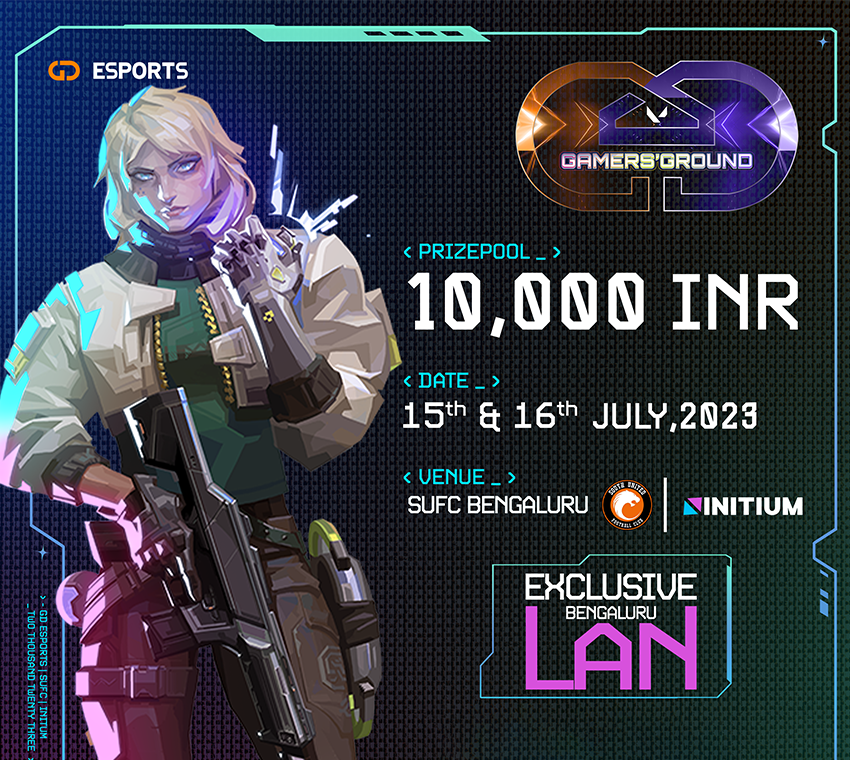
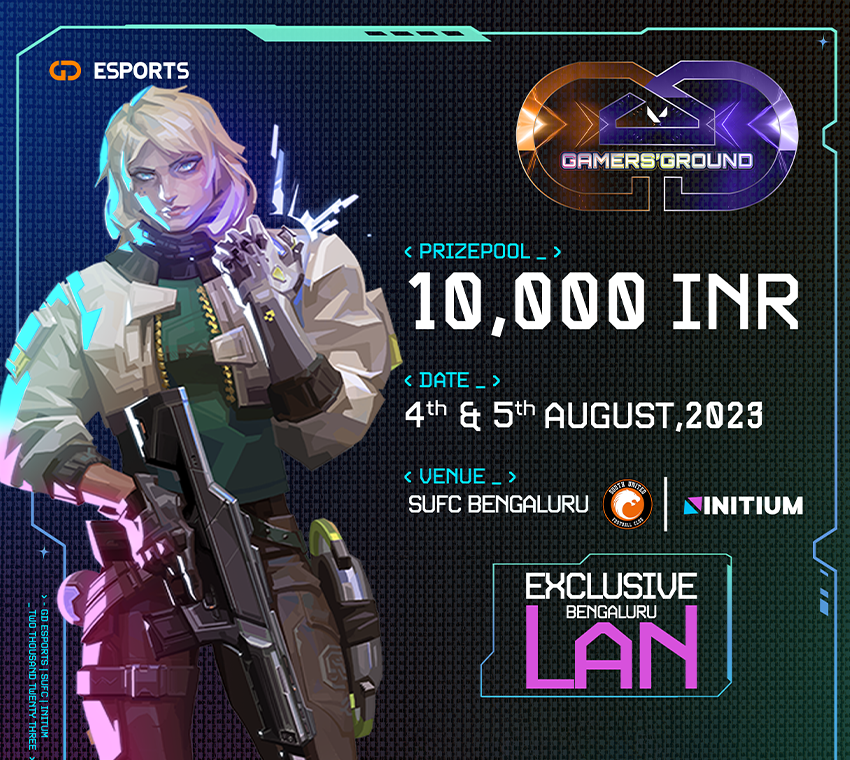
Gamersground Date Update

diff --git a/gd-form copy 2/script.js b/gd-form copy 2/script.js
@@ -1,30 +1,30 @@
 let timer;
 
 const compareDate = new Date();
-var countDownDate = new Date("JUL 15, 2023 16:37:52").getTime();
+var countDownDate = new Date("AUG 4, 2023 16:37:52").getTime();
 
 compareDate.setDate(compareDate.getDate() + 11); //just for this demo today + 7 days
 
 var myfunc = setInterval(function () {
-	// code goes here
-	var now = new Date().getTime();
-	var timeleft = countDownDate - now;
+  // code goes here
+  var now = new Date().getTime();
+  var timeleft = countDownDate - now;
 
-	var days = Math.floor(timeleft / (1000 * 60 * 60 * 24));
-	var hours = Math.floor((timeleft % (1000 * 60 * 60 * 24)) / (1000 * 60 * 60));
-	var minutes = Math.floor((timeleft % (1000 * 60 * 60)) / (1000 * 60));
-	var seconds = Math.floor((timeleft % (1000 * 60)) / 1000);
+  var days = Math.floor(timeleft / (1000 * 60 * 60 * 24));
+  var hours = Math.floor((timeleft % (1000 * 60 * 60 * 24)) / (1000 * 60 * 60));
+  var minutes = Math.floor((timeleft % (1000 * 60 * 60)) / (1000 * 60));
+  var seconds = Math.floor((timeleft % (1000 * 60)) / 1000);
 
-	document.querySelector(".day").textContent = String(days).padStart(2, 0);
-	document.querySelector(".hour").textContent = String(hours).padStart(2, 0);
-	document.querySelector(".minute").textContent = String(minutes).padStart(
-		2,
-		0
-	);
-	document.querySelector(".second").textContent = String(seconds).padStart(
-		2,
-		0
-	);
+  document.querySelector(".day").textContent = String(days).padStart(2, 0);
+  document.querySelector(".hour").textContent = String(hours).padStart(2, 0);
+  document.querySelector(".minute").textContent = String(minutes).padStart(
+    2,
+    0
+  );
+  document.querySelector(".second").textContent = String(seconds).padStart(
+    2,
+    0
+  );
 }, 1000);
 
 // function timeBetweenDates(toDate) {
@@ -49,44 +49,44 @@ let formHtml = [];
 console.log(formHtml);
 
 function confirm(e) {
-	e.preventDefault();
-	const edit = document.querySelectorAll(".edit");
-	edit.forEach((el) => {
-		el.style.display = "flex";
-		el.addEventListener("click", function (e) {
-			e.preventDefault();
-			el.closest(".form")
-				.querySelectorAll("input")
-				.forEach((el) => {
-					el.readOnly = !el.readOnly;
-					el.classList.toggle("hidden");
-				});
-		});
-	});
-	document.querySelector(".form-btn-confirm").style.display = "none";
-	document.querySelector(".form-btn").style.display = "flex";
-	document.querySelectorAll(".form").forEach((el) => {
-		el.querySelectorAll("input").forEach((el) => {
-			el.readOnly = "true";
-			el.classList.add("hidden");
-		});
-	});
+  e.preventDefault();
+  const edit = document.querySelectorAll(".edit");
+  edit.forEach((el) => {
+    el.style.display = "flex";
+    el.addEventListener("click", function (e) {
+      e.preventDefault();
+      el.closest(".form")
+        .querySelectorAll("input")
+        .forEach((el) => {
+          el.readOnly = !el.readOnly;
+          el.classList.toggle("hidden");
+        });
+    });
+  });
+  document.querySelector(".form-btn-confirm").style.display = "none";
+  document.querySelector(".form-btn").style.display = "flex";
+  document.querySelectorAll(".form").forEach((el) => {
+    el.querySelectorAll("input").forEach((el) => {
+      el.readOnly = "true";
+      el.classList.add("hidden");
+    });
+  });
 
-	const handleSubmit = (event) => {
-		event.preventDefault();
+  const handleSubmit = (event) => {
+    event.preventDefault();
 
-		const myForm = event.target;
-		const formData = new FormData(myForm);
+    const myForm = event.target;
+    const formData = new FormData(myForm);
 
-		fetch("/", {
-			method: "POST",
-			headers: { "Content-Type": "application/x-www-form-urlencoded" },
-			body: new URLSearchParams(formData).toString(),
-		})
-			.then(() => (document.location.href = "../confirm/register.html"))
-			.catch((error) => alert(error));
-	};
-	document.querySelector(".form-box").addEventListener("submit", handleSubmit);
+    fetch("/", {
+      method: "POST",
+      headers: { "Content-Type": "application/x-www-form-urlencoded" },
+      body: new URLSearchParams(formData).toString(),
+    })
+      .then(() => (document.location.href = "../confirm/register.html"))
+      .catch((error) => alert(error));
+  };
+  document.querySelector(".form-box").addEventListener("submit", handleSubmit);
 }
 document.querySelector(".form-box").addEventListener("submit", confirm);
 
@@ -108,19 +108,19 @@ document.querySelector(".form-box").addEventListener("submit", confirm);
 // document.querySelector("form").addEventListener("submit", handleSubmit);
 
 function checkFlexGap() {
-	var flex = document.createElement("div");
-	flex.style.display = "flex";
-	flex.style.flexDirection = "column";
-	flex.style.rowGap = "1px";
+  var flex = document.createElement("div");
+  flex.style.display = "flex";
+  flex.style.flexDirection = "column";
+  flex.style.rowGap = "1px";
 
-	flex.appendChild(document.createElement("div"));
-	flex.appendChild(document.createElement("div"));
+  flex.appendChild(document.createElement("div"));
+  flex.appendChild(document.createElement("div"));
 
-	document.body.appendChild(flex);
-	var isSupported = flex.scrollHeight === 1;
-	flex.parentNode.removeChild(flex);
-	// console.log(isSupported);
+  document.body.appendChild(flex);
+  var isSupported = flex.scrollHeight === 1;
+  flex.parentNode.removeChild(flex);
+  // console.log(isSupported);
 
-	if (!isSupported) document.body.classList.add("no-flexbox-gap");
+  if (!isSupported) document.body.classList.add("no-flexbox-gap");
 }
 checkFlexGap();

diff --git a/carousel.css b/carousel.css
@@ -1,5 +1,5 @@
 * {
-	box-sizing: border-box;
+  box-sizing: border-box;
 }
 
 /* body {
@@ -13,11 +13,11 @@
 } */
 
 .slider {
-	height: 50rem;
-	margin: 0 auto;
-	position: relative;
+  height: 50rem;
+  margin: 0 auto;
+  position: relative;
 
-	background-size: contain;
+  background-size: contain;
 }
 
 /* .wrapper {
@@ -29,31 +29,31 @@
 } */
 
 .slides {
-	position: absolute;
+  position: absolute;
 
-	left: 0;
-	display: flex;
-	height: auto;
-	align-items: center;
-	justify-content: center;
+  left: 0;
+  display: flex;
+  height: auto;
+  align-items: center;
+  justify-content: center;
 }
 .slider-img {
-	/* height: 50rem; */
-	width: 100%;
+  /* height: 50rem; */
+  width: 100%;
 }
 
 .slides.shifting {
-	transition: left 0.2s ease-out;
+  transition: left 0.2s ease-out;
 }
 
 .slide {
-	display: flex;
-	width: 100vw;
-	justify-content: center;
-	transition: all 1s;
-	position: relative;
+  display: flex;
+  width: 100vw;
+  justify-content: center;
+  transition: all 1s;
+  position: relative;
 
-	border-radius: 2px;
+  border-radius: 2px;
 }
 /* 
 .slider.loaded {
@@ -77,58 +77,58 @@
 } */
 
 .control {
-	position: absolute;
-	top: 50%;
-	height: 6.5rem;
-	width: 6.5rem;
-	background: #fff;
-	border-radius: 50px;
-	margin-top: -20px;
-	box-shadow: 1px 1px 10px rgba(0, 0, 0, 0.3);
-	z-index: 2;
+  position: absolute;
+  top: 50%;
+  height: 6.5rem;
+  width: 6.5rem;
+  background: #fff;
+  border-radius: 50px;
+  margin-top: -20px;
+  box-shadow: 1px 1px 10px rgba(0, 0, 0, 0.3);
+  z-index: 2;
 }
 
 .prev,
 .next {
-	background-size: 2.2rem;
-	background-position: center;
-	background-repeat: no-repeat;
-	cursor: pointer;
-	transform: translate(0, -50%);
+  background-size: 2.2rem;
+  background-position: center;
+  background-repeat: no-repeat;
+  cursor: pointer;
+  transform: translate(0, -50%);
 }
 
 .prev {
-	background-image: url(./svgs/left-arrow.svg);
-	top: 50%;
-	left: 1%;
+  background-image: url(./svgs/left-arrow.svg);
+  top: 50%;
+  left: 1%;
 }
 
 .next {
-	background-image: url(./svgs/Arrow---Left.svg);
-	top: 50%;
-	right: 1%;
+  background-image: url(./svgs/Arrow---Left.svg);
+  top: 50%;
+  right: 1%;
 }
 
 .slider--1 {
-	background-image: url(./pngs/AimDuos\ Banner.png);
-	height: 50rem;
-	width: 100vw;
-	background-size: 100%;
-	background-repeat: no-repeat;
+  background-image: url(./pngs/AimDuos\ Banner.png);
+  height: 50rem;
+  width: 100vw;
+  background-size: 100%;
+  background-repeat: no-repeat;
 }
 
 .slider--2 {
-	background-image: url(./pngs/General\ banner\ GD.png);
-	height: 50rem;
-	width: 100vw;
-	background-size: 100%;
-	background-repeat: no-repeat;
+  background-image: url(./pngs/General\ banner\ GD.png);
+  height: 50rem;
+  width: 100vw;
+  background-size: 100%;
+  background-repeat: no-repeat;
 }
 
 .slider--3 {
-	background-image: url(./pngs/geBanner.png);
-	height: 50rem;
-	width: 100vw;
-	background-size: 100%;
-	background-repeat: no-repeat;
+  background-image: url(./pngs/geBanner.png);
+  height: 50rem;
+  width: 100vw;
+  background-size: 100%;
+  background-repeat: no-repeat;
 }

diff --git a/index.html b/index.html
@@ -78,8 +78,8 @@
           <div class="modal">
             <div class="banner-container">
               <img
-                src="./pngs/228 x 259 Gamer'sground.png"
-                data-src="./pngs/228 x 259 Gamer'sground.png"
+                src="./pngs/228 x 259 Gamer'sground (1).png"
+                data-src="./pngs/228 x 259 Gamer'sground (1).png"
                 alt="tournament-logo"
                 class="tournament-logo"
               />
@@ -107,7 +107,7 @@
                 </div>
                 <div class="date">
                   <h3>Date</h3>
-                  <p>15 July 2023</p>
+                  <p>4 August 2023</p>
                 </div>
               </div>
               <div class="btn-container">

diff --git a/gd-form copy 2/form.html b/gd-form copy 2/form.html
@@ -68,7 +68,7 @@
                 <img src="./pngs/flat-color-icons_overtime.png" />
                 <div>
                   <h2>Start Date</h2>
-                  <p>15 July 2023</p>
+                  <p>4 August 2023</p>
                 </div>
               </div>
 
@@ -96,7 +96,7 @@
             <div class="discord-container">
               <p>Click to download the rulebook</p>
               <a
-                href="https://drive.google.com/file/d/17vr16Y_h9IWIe3gPWq6ZKJ0quU8eoij3/view?usp=drivesdk"
+                href="https://drive.google.com/file/d/1av9TfTKCDD6TypQHJoOt2JasLMNZnVuQ/view?usp=sharing"
                 class="orange-border discord-btn"
               >
                 <span>Rulebook</span>
